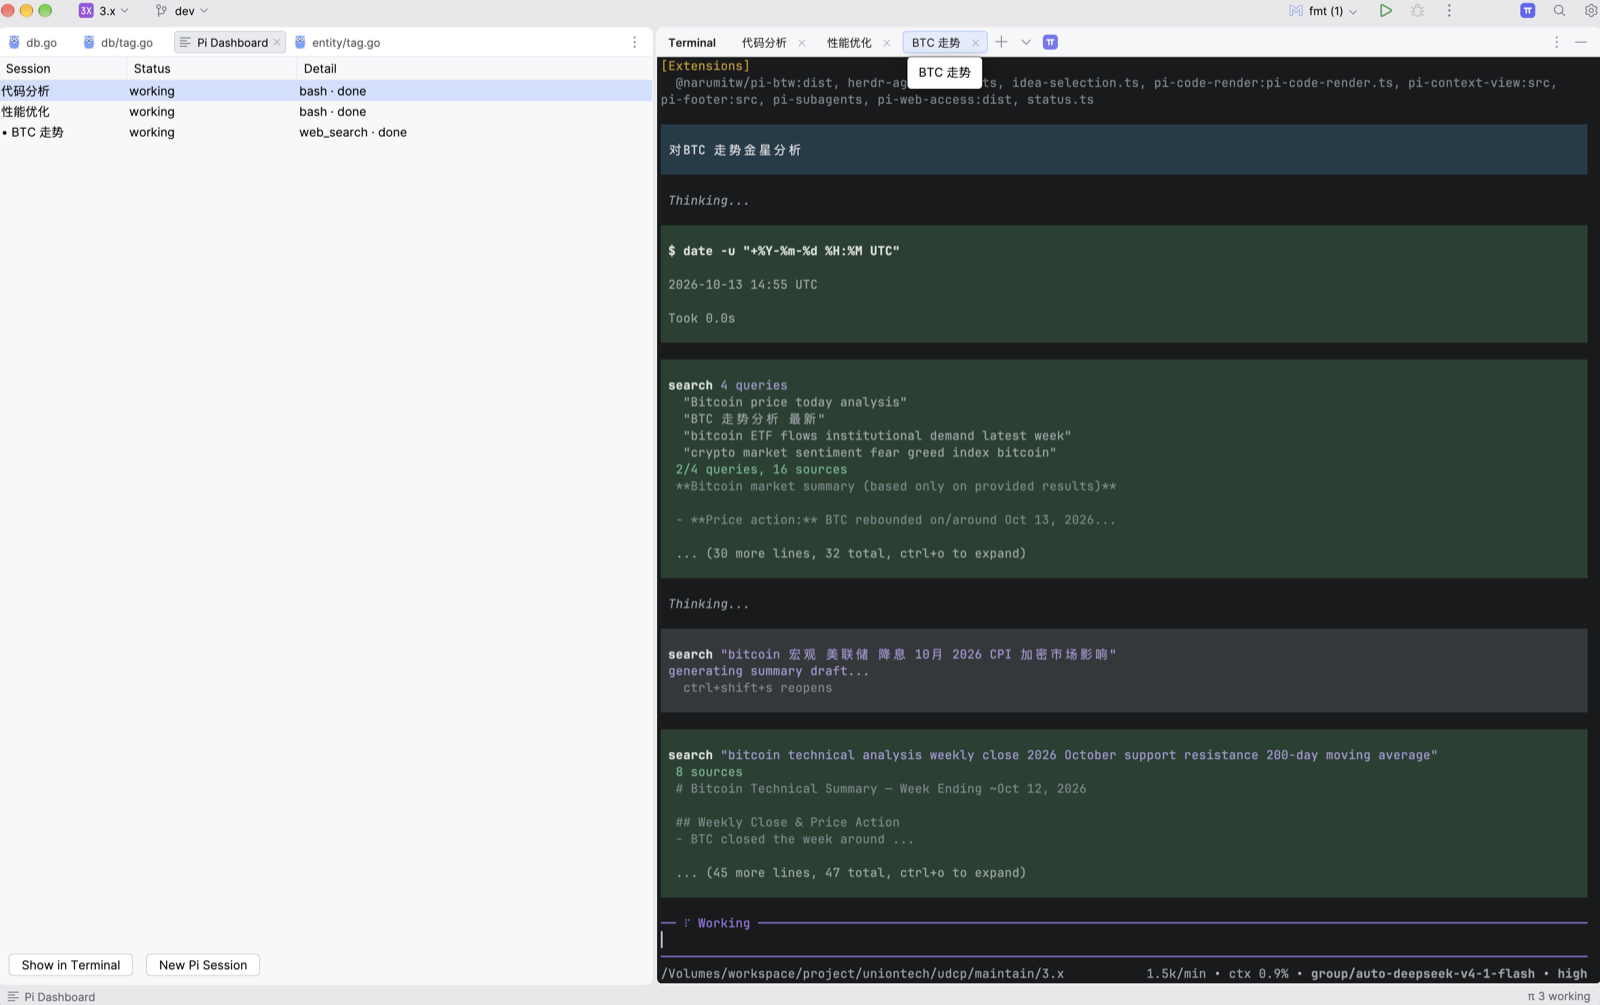
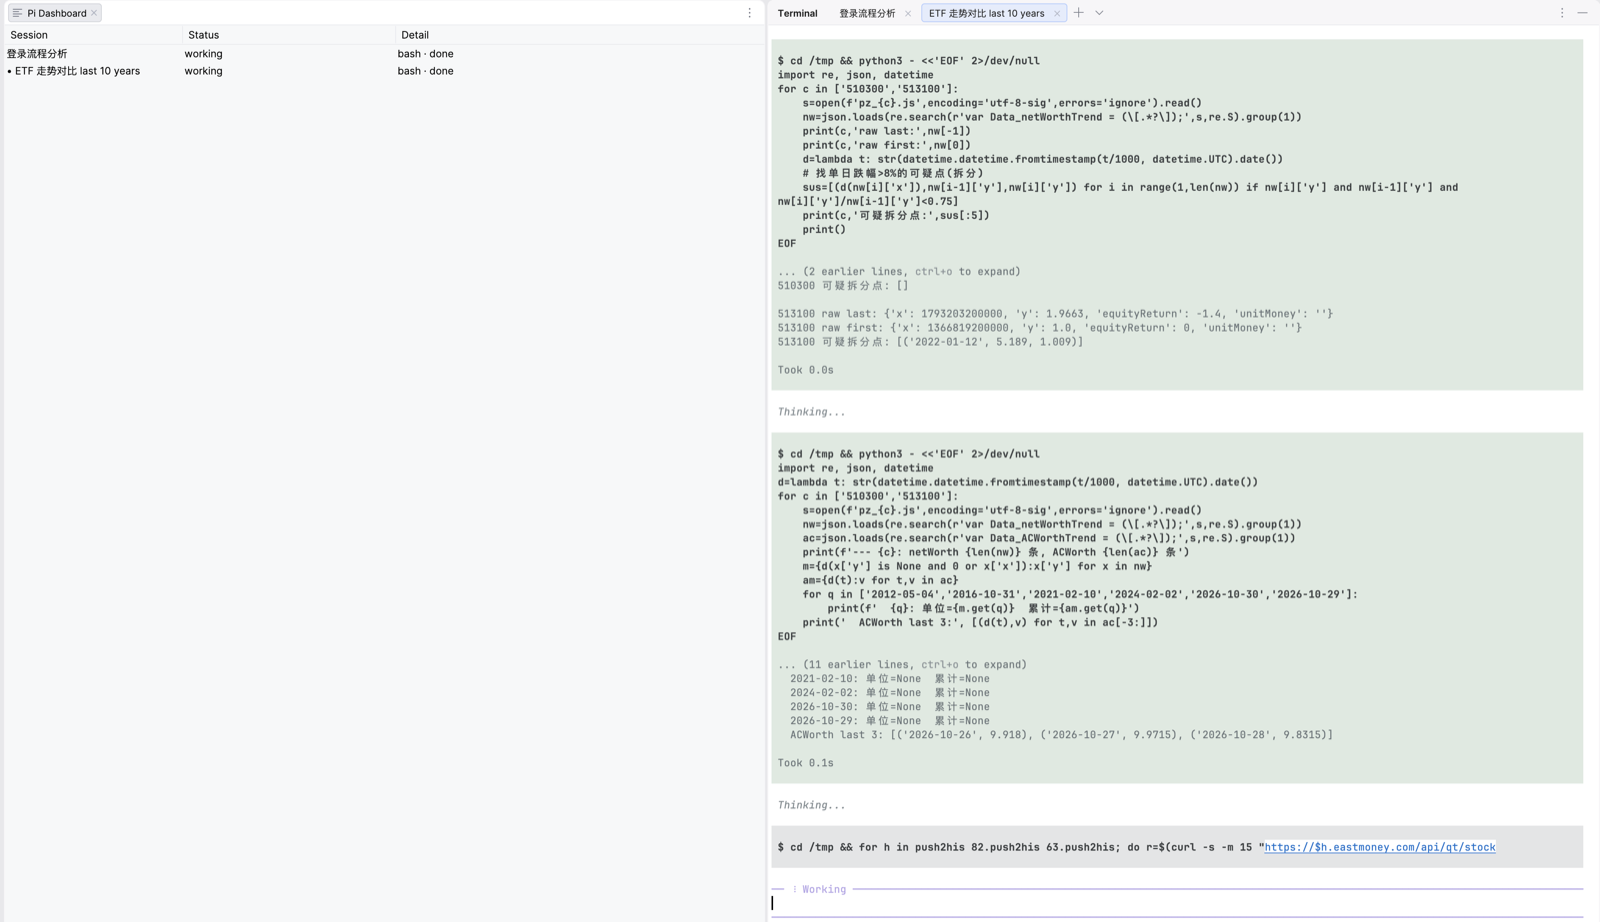
docs: refresh the dashboard screenshot for 0.4.5
Two running sessions under names the user chose, `working` with Pi's own
detail, and no closed rows - which is what the dashboard shows now. The
action bar at the bottom of the panel fell outside the capture, so the
screenshot does not show the buttons that are left.

diff --git a/PUBLISH.md b/PUBLISH.md
@@ -58,7 +58,7 @@ echo 'publishToken=<你的 token>' >> ~/.gradle/gradle.properties
 截图不在 zip 里，`publishPlugin` 也不会碰 Media 区块，只能在插件编辑页手动上传：
 
 1. 打开 <https://plugins.jetbrains.com/plugin/34851-pi-launcher/edit>
-2. **Media** 区块上传 `screenshots/04-session-dashboard.png`（1600×1005）
+2. **Media** 区块上传 `screenshots/04-session-dashboard.png`（1600×922）
 3. 建议把它排到第一位：Session Dashboard 最能说明这个插件现在做什么
 
 ## 发布前检查
